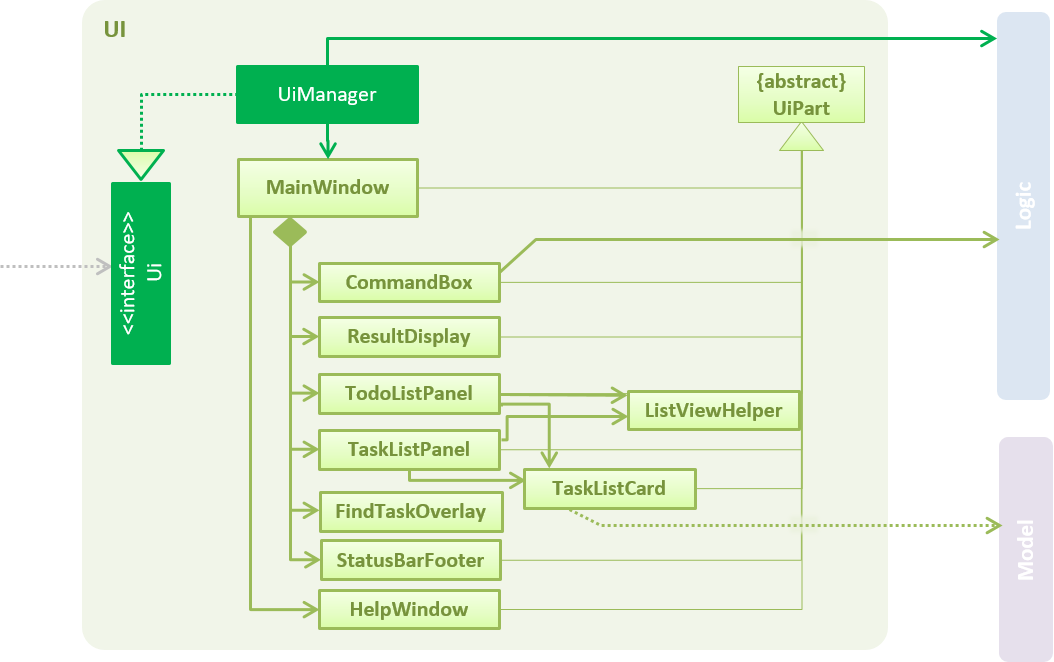
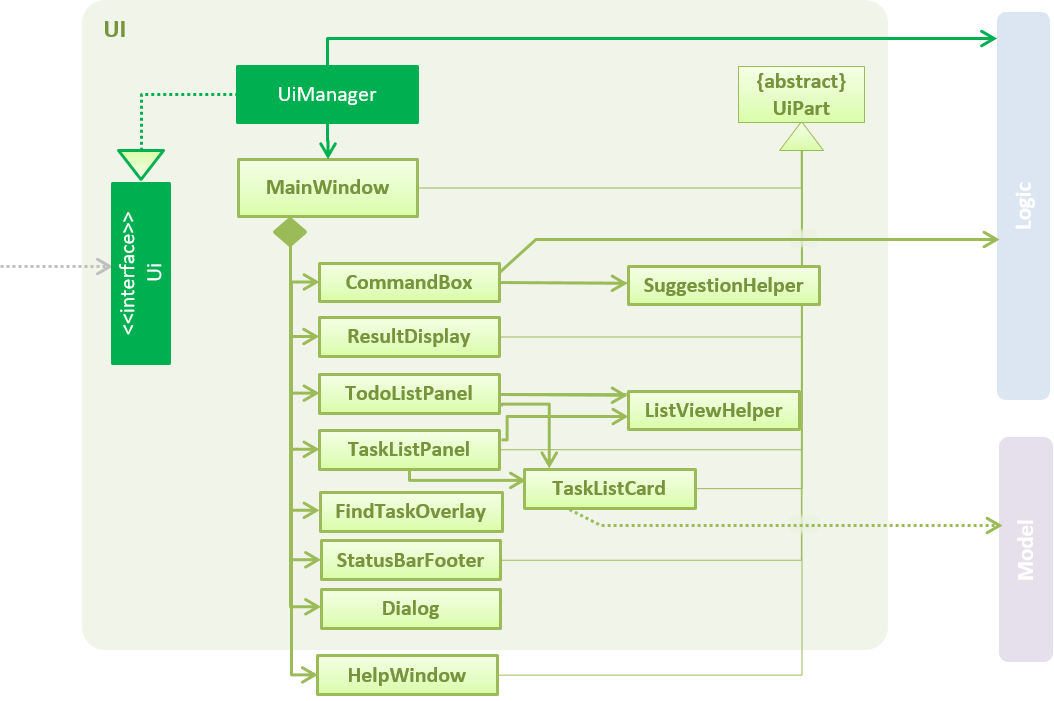
Update DG

diff --git a/docs/DeveloperGuide.md b/docs/DeveloperGuide.md
@@ -198,7 +198,7 @@ _Figure 2.2.1 : Structure of the UI Component_
 
 The User Interface (UI) consists of a `MainWindow` that is made up of parts e.g.`CommandBox`, `ResultDisplay`, `TodoListPanel`, `TaskListPanel`, `FindTaskOverlay`, `StatusBarFooter` etc. All these, including the `MainWindow`, inherit from the abstract `UiPart` class.
 
-The `UI` component uses JavaFx UI framework. The layout of these UI parts are defined in matching `.fxml` files
+The `UI` component uses JavaFx UI framework. The layout of these `UI parts` are defined in matching `.fxml` files
  that are in the `src/main/resources/view` folder.<br>
  For example, the layout of the [`MainWindow`](../src/main/java/utask/ui/MainWindow.java) is specified in
  [`MainWindow.fxml`](../src/main/resources/view/MainWindow.fxml)
@@ -215,7 +215,11 @@ Furthermore, to extend ListHelper compatibility, it uses **generic** of type Col
 
 ListViewHelper, extends the abstract ListHelper, to coordinates multiple listviews to ensure their index numbers are in running sequence and also provide utility functions for retrieving and scrolling tasks. It uses **singleton pattern** to ensure only one instance of it runs in the UTask. This is critical as it prevents the accidental overwriting of values after UI initialization.
 
-Finally, UI classes are not using Singleton Pattern. In hope that, UTask Developers use EventsCenter as a correct means to propagate events to the UI. As they are only created once and can only be binded during the initialisation of MainWindow. Therefore, there are no strong reasons to use Singleton Pattern. As they can be used incorrectly, which increased class coupling and degrade the code quality of UI.
+Dialog enables displaying of information on MainWindow in a popup dialog, which can be dismissed with `Escape` key. It uses **Decorator pattern** and leaves the actual UI implementation of its subclass. For example, `TagColorDialog` extends it and override its initilisation code block to add a FlowPane with tags as text labels and `AliasDialog` extends it and override its initilisation code block to add a VBox with alias as text labels.
+
+CommandBox uses SuggestionHelper, a Singleton, to lookup for suggestions relating to user's inputted command. It will show specific command format if inputted command is recognised. Otherwise, it will show all possible command words.
+
+Finally, `UI parts` are not using Singleton Pattern. In hope that, UTask Developers use EventsCenter as a correct means to propagate events to the UI. As they are only created once and can only be binded during the initialisation of MainWindow. Therefore, there are no strong reasons to use Singleton Pattern. As they can be used incorrectly, which increased class coupling and degrade the code quality of UI.
 
 Given below is the State Diagram of UI, where state is depended on whether Find UI is shown`<br>
 <img src="images/UIStateDiagram.png" width="800"><br>
